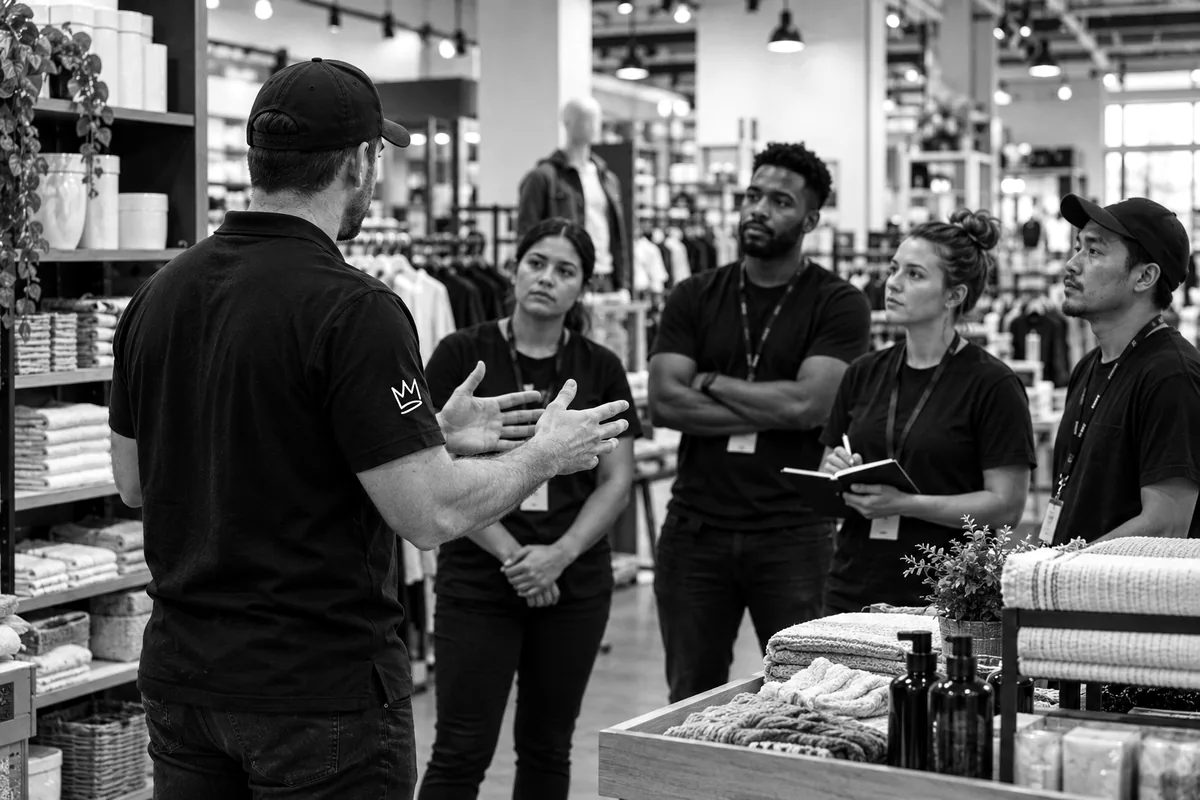
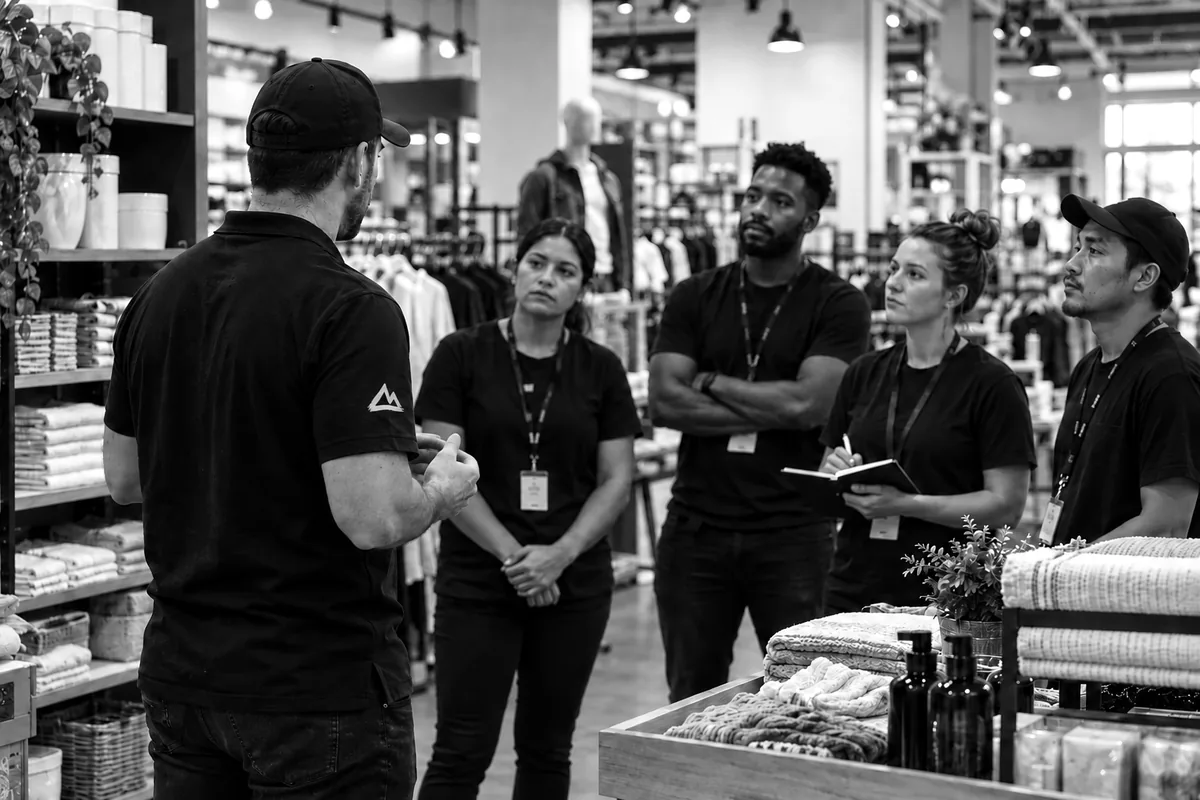
Regenerate the hero, campaign and careers photos from the re-uploaded sources
prepare-images.py now reads the campaign and How We Work slots from the
SKALA_02 and SKALA_03 sources directly, so a re-upload of either flows through.

Claude-Session: https://claude.ai/code/session_01K8y8hTczq6HyHoN1wcVFm8

diff --git a/index.html b/index.html
@@ -95,7 +95,7 @@
       <!-- Image slot: drop a 1600×1200 black-and-white photograph here as <img class="media-slot__img"> and the poster below becomes the caption layer. See docs/asset-manifest.md. -->
       <div class="hero__media media-slot" data-image-slot="hero">
         <i class="tear tear--hero" aria-hidden="true"></i>
-        <img class="media-slot__img" src="assets/images/hero-store-floor.webp?v=339185c8" width="1536" height="1024" alt="Two SKALA operators walking the store floor before opening, one carrying a crate" fetchpriority="high">
+        <img class="media-slot__img" src="assets/images/hero-store-floor.webp?v=b5e29161" width="1536" height="1024" alt="Two SKALA operators walking the store floor before opening, one carrying a crate" fetchpriority="high">
         <div class="poster poster--hero" aria-hidden="true">
           <span class="poster__wordmark brush">SKALA</span>
           <svg class="poster__peaks mark-peaks" focusable="false"><use href="#mark-peaks-sweep"/></svg>
@@ -302,7 +302,7 @@
       <!-- Image slot: 1200×900 secondary photograph (training moment, marked-up notebook, opening prep). -->
       <div class="campaign__media media-slot" data-image-slot="secondary">
         <i class="tear tear--campaign" aria-hidden="true"></i>
-        <img class="media-slot__img" src="assets/images/campaign-team-training.webp?v=af9676fa" width="1200" height="800" alt="A store leader talking through the work with four team members on the sales floor, one taking notes" loading="lazy">
+        <img class="media-slot__img" src="assets/images/campaign-team-training.webp?v=5fb07338" width="1200" height="800" alt="A store leader talking through the work with four team members on the sales floor, one taking notes" loading="lazy">
         <p class="campaign__poster-copy" aria-hidden="true">Strong operators prepare.</p>
       </div>
       <div class="campaign__panel">

diff --git a/careers.html b/careers.html
@@ -83,7 +83,7 @@
           <p class="section-intro">You’ve opened locations, rolled out something that stuck, or helped a growing business run better. You know your specialty, and what happens when it meets the rest of the operation. <strong>That’s the experience we want at SKALA.</strong></p>
         </div>
         <figure class="figure figure--wide reveal">
-          <img src="assets/images/join-onboarding-swag.webp?v=31a9d88a" width="1200" height="800" alt="SKALA onboarding kit on a workbench: laptop, crown-badged backpack and card" loading="lazy">
+          <img src="assets/images/join-onboarding-swag.webp?v=4edf0271" width="1200" height="800" alt="SKALA onboarding kit on a workbench: laptop, crown-badged backpack and card" loading="lazy">
         </figure>
         <div class="join__body reveal">
           <ul class="join__chips" aria-label="Specialties we are looking for">

diff --git a/tools/prepare-images.py b/tools/prepare-images.py
@@ -12,8 +12,8 @@ from PIL import Image, ImageOps
 # source filename (any extension) -> (output name, target width)
 MAPPING = {
     "SKALA_01_store_floor_hero": ("hero-store-floor.webp", 1600),
-    "campaign-team-training": ("campaign-team-training.webp", 1200),
-    "approach-before-doors-open": ("approach-before-doors-open.webp", 1200),
+    "SKALA_02_team_training": ("campaign-team-training.webp", 1200),
+    "SKALA_03_before_the_doors_open": ("approach-before-doors-open.webp", 1200),
     "SKALA_18_between_locations": ("about-between-locations.webp", 900),
     "SKALA_21_onboarding_swag": ("join-onboarding-swag.webp", 1200),
     "SKALA_09_the_field_notebook": ("notes-field-notebook.webp", 1200),

diff --git a/docs/asset-manifest.md b/docs/asset-manifest.md
@@ -44,8 +44,8 @@ mapping at the top of that script names which source feeds which slot.
 | Source | On the page | Notes |
 |---|---|---|
 | `SKALA_01_store_floor_hero` | Hero | |
-| `campaign-team-training` (SKALA_02) | Campaign poster | |
-| `approach-before-doors-open` (SKALA_03) | How we work | |
+| `SKALA_02_team_training` | Campaign poster | |
+| `SKALA_03_before_the_doors_open` | How we work | |
 | `about-between-locations` (SKALA_18, cropped 2:3) | About | Not presented as Tavis |
 | `join-onboarding-swag` (SKALA_21) | Careers | |
 | `SKALA_09_the_field_notebook` | Field notes | |
